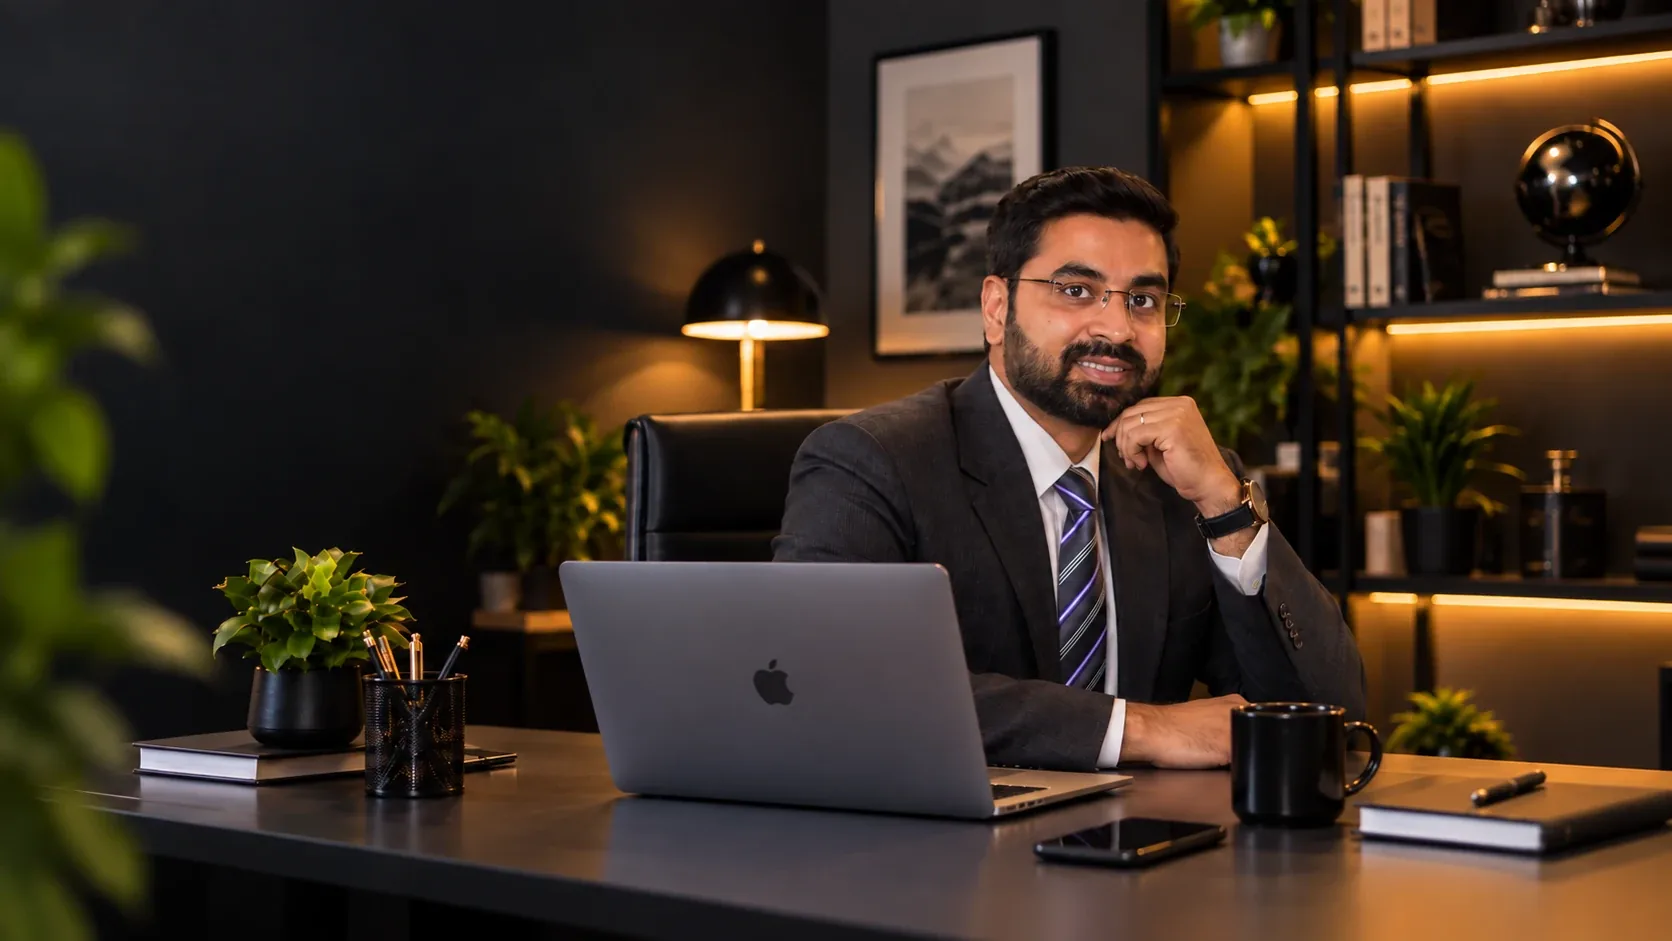
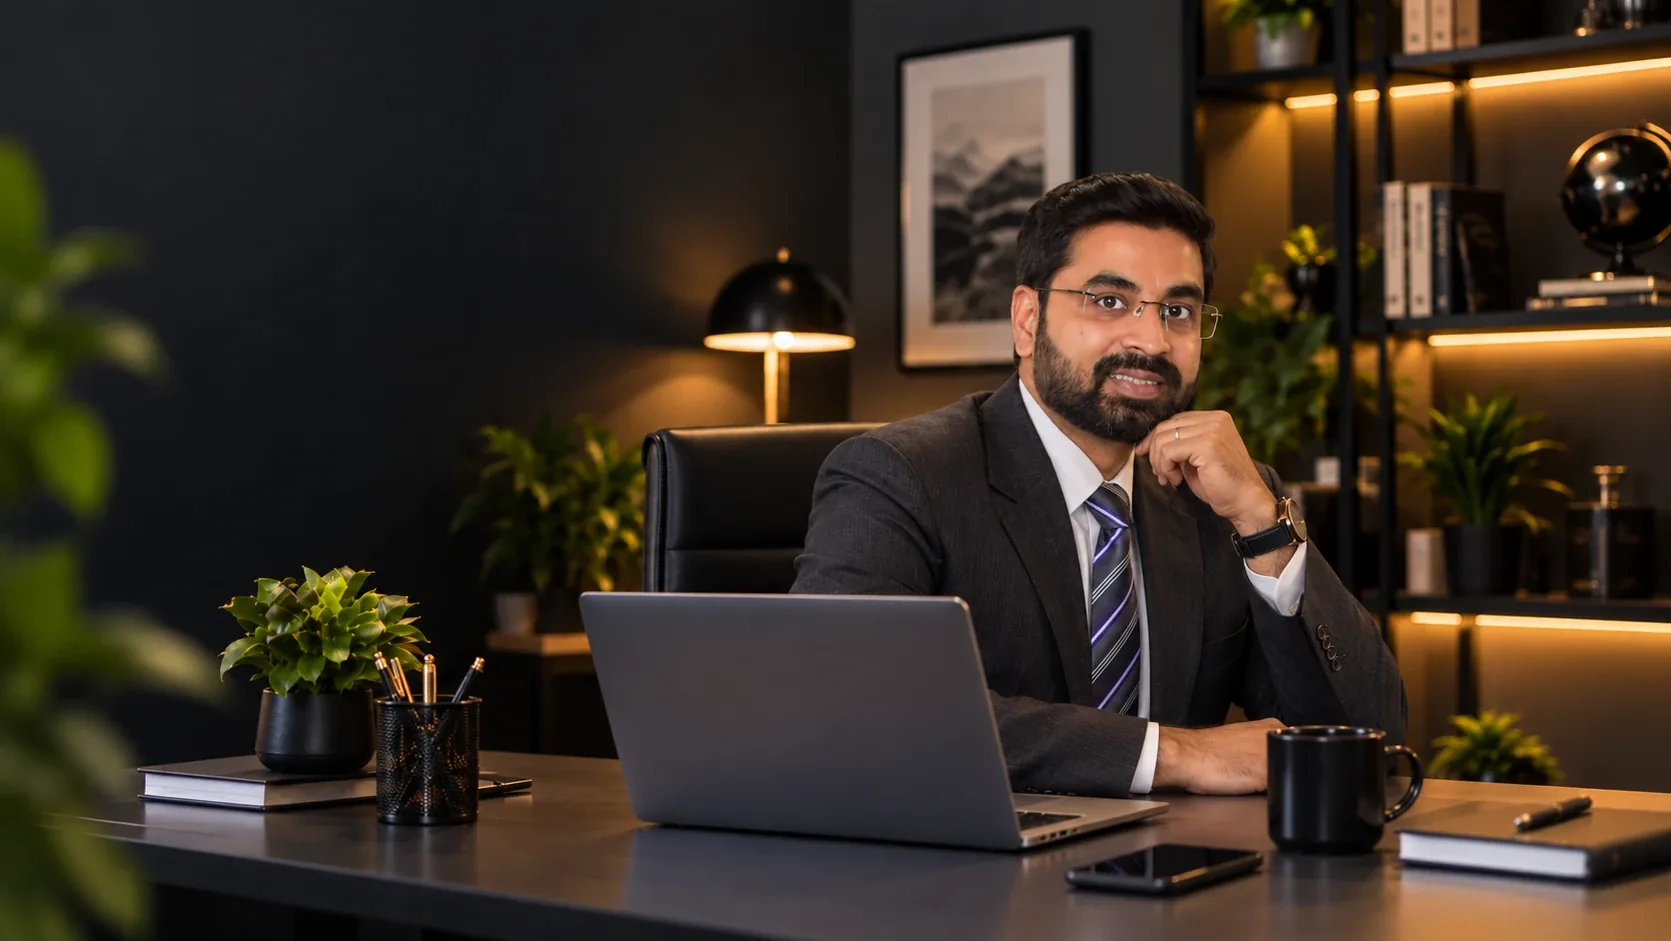
Swap hero photo and shift it right so the subject clears the headline
Claude-Session: https://claude.ai/code/session_01DuHo3NwZanCEkG6Gp8CW5G

diff --git a/src/styles/index.css b/src/styles/index.css
@@ -605,7 +605,7 @@ h1, h2, h3, .statement, .display { font-weight: 400; }
    right half. A scrim only keeps text legible where it crosses the photo. */
 .hero--photo { position: relative; padding-top: 0; padding-bottom: var(--s-7); }
 .hero--photo .hero-bg { position: relative; height: 22rem; margin-bottom: var(--s-6); overflow: hidden; }
-.hero--photo .hero-bg img { width: 100%; height: 100%; object-fit: cover; }
+.hero--photo .hero-bg img { width: 100%; height: 100%; object-fit: cover; object-position: var(--fm); }
 .hero--photo .hero-bg::after { content: ""; position: absolute; inset: auto 0 0 0; height: 45%; background: linear-gradient(to top, var(--ink), transparent); }
 .hero--photo .hero-grid { display: block; position: relative; z-index: 1; }
 @media (prefers-reduced-motion: no-preference) {
@@ -614,9 +614,11 @@ h1, h2, h3, .statement, .display { font-weight: 400; }
 }
 @media (min-width: 62em) {
   .hero--photo { min-height: min(100svh, 58rem); padding-block: calc(var(--header-h) + var(--s-8)) var(--s-8); display: flex; align-items: center; }
-  .hero--photo .hero-bg { position: absolute; inset: 0; height: auto; margin: 0; }
-  .hero--photo .hero-bg::after { inset: 0; height: auto; background: linear-gradient(90deg, var(--ink) 0%, color-mix(in srgb, var(--ink) 82%, transparent) 34%, transparent 62%); }
+  .hero--photo .hero-bg { position: absolute; inset: 0 0 0 22%; height: auto; margin: 0; }
+  .hero--photo .hero-bg img { object-position: var(--fd); }
+  .hero--photo .hero-bg::after { inset: 0; height: auto; background: linear-gradient(90deg, var(--ink) 0%, color-mix(in srgb, var(--ink) 70%, transparent) 22%, transparent 52%); }
   .hero--photo .hero-copy { max-width: 46rem; }
+  .hero--photo .lead { max-width: 38ch; }
   .hero--photo .hero-meta { border-top-color: color-mix(in srgb, var(--paper) 22%, transparent); max-width: 40rem; }
 }
 /* top edge: keep the transparent header legible over the photo */

diff --git a/src/pages/Home.tsx b/src/pages/Home.tsx
@@ -13,7 +13,7 @@ export default function Home() {
       <section className={`hero on-ink ${site.images.hero ? "hero--photo" : ""}`} aria-labelledby="hero-h">
         {site.images.hero && (
           <div className="hero-bg">
-            <img src={site.images.hero} alt={site.images.portraitAlt} width={site.images.heroWidth} height={site.images.heroHeight} fetchPriority="high" decoding="async" style={{ objectPosition: site.images.heroFocus }} />
+            <img src={site.images.hero} alt={site.images.portraitAlt} width={site.images.heroWidth} height={site.images.heroHeight} fetchPriority="high" decoding="async" style={{ "--fm": site.images.heroFocus, "--fd": site.images.heroFocusWide } as React.CSSProperties} />
           </div>
         )}
         <div className="container hero-grid">

diff --git a/src/config/site.ts b/src/config/site.ts
@@ -81,8 +81,10 @@ export const site = {
     portraitAlt: "Anuj Yadav seated at a desk in a dark, warmly lit office, smiling toward the camera",
     /** Wide hero photograph (landscape, ≥1600px). null = the brand-mark hero is used instead. */
     hero: "/images/anuj-hero.webp" as string | null,
+    /** object-position on phones / on wide screens (photo is offset right on desktop so text stays clear). */
     heroFocus: "72% 38%",
-    heroWidth: 1672,
+    heroFocusWide: "46% 40%",
+    heroWidth: 1671,
     heroHeight: 941,
     /** Social sharing card (1200×630). e.g. "/images/og.jpg". Empty = no og:image tag. */
     og: "/images/og.jpg",
